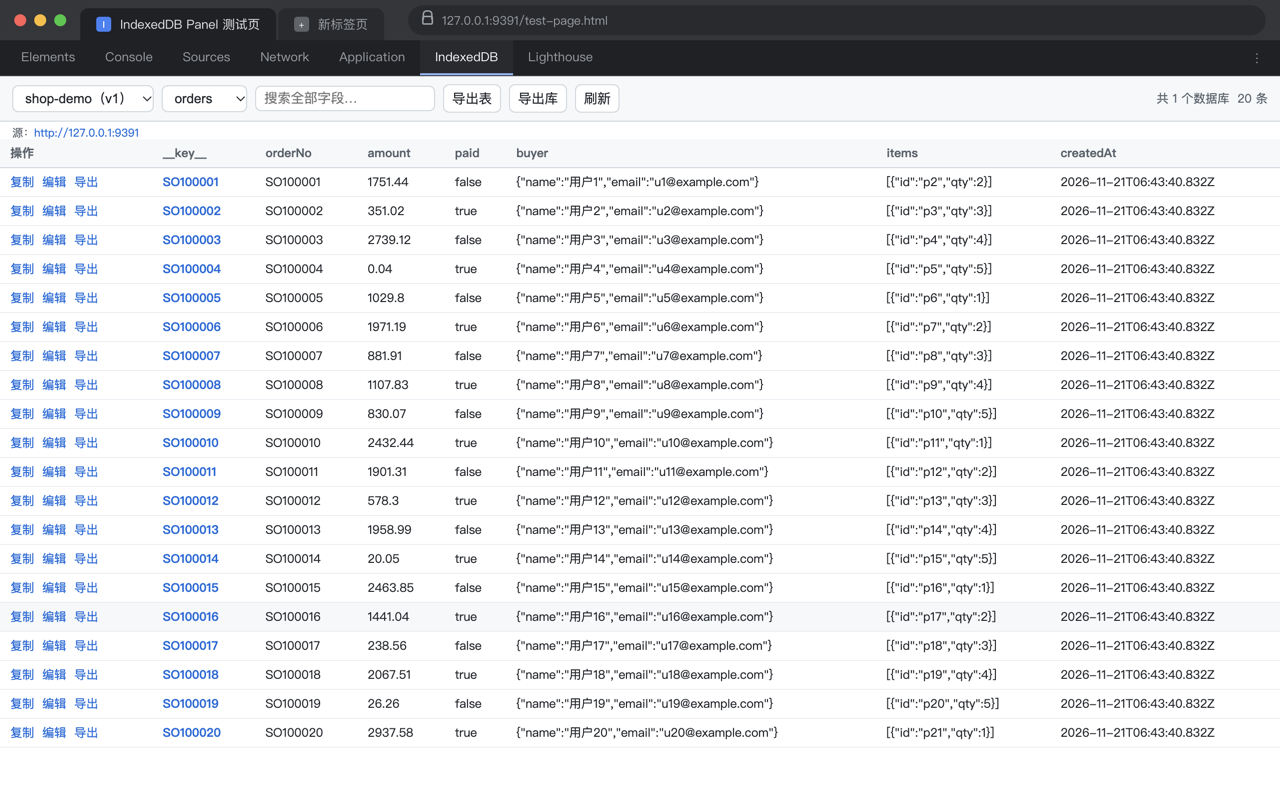
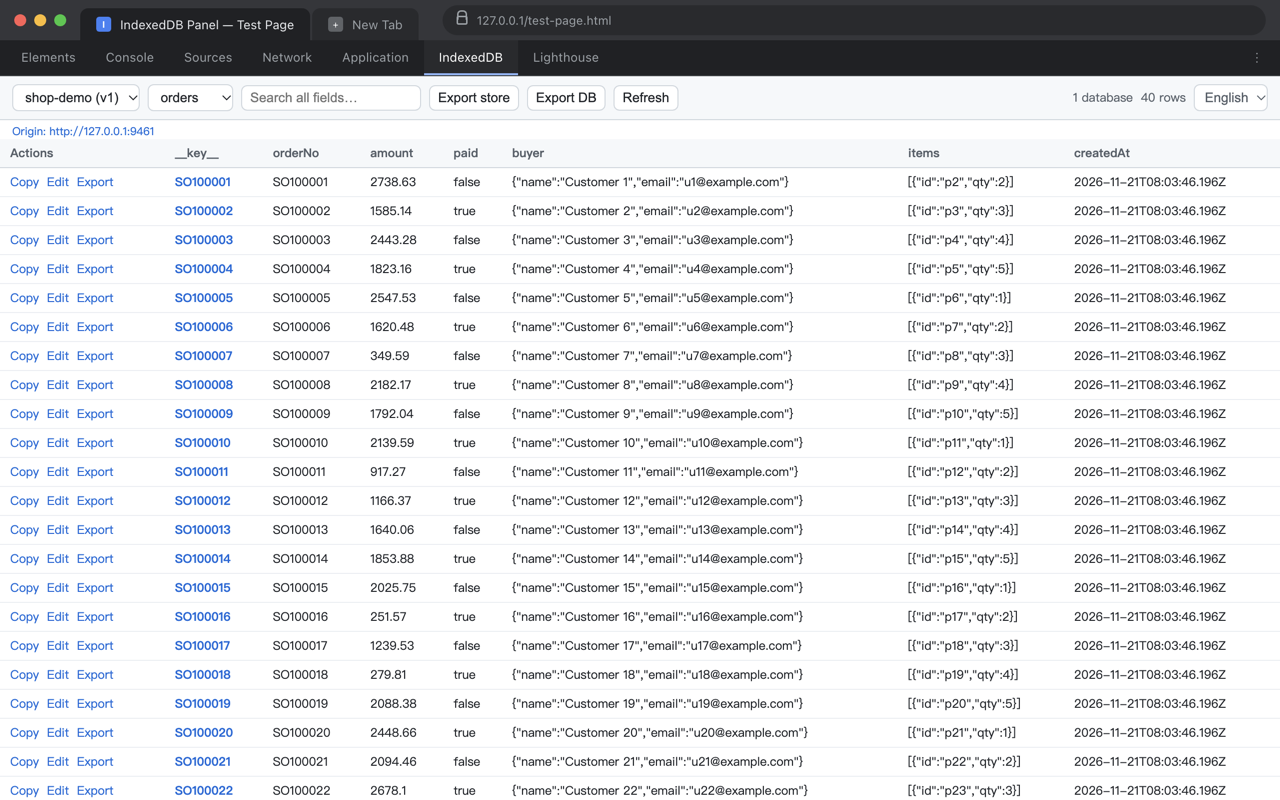
docs: 商店截图的界面与示例数据全部改为英文
商店评审和海外用户看的是英文，之前截图里的表格数据还是中文（商品 1、
耳机、新品…），跟界面已经英文化的现状不一致。

做法：另起一个英文 fixture 页（Product 1 / Audio / New…），用同一套 CDP
流程重新采图：
- 5 张 1280×800：主图换成英文 mock（标签页 IndexedDB Panel — Test Page、
  地址栏 127.0.0.1/test-page.html），其余四张为英文界面 + 英文数据。
- 主图用 orders 表（40 条）而非 products，既展示不同 schema，也让页面填满。
- 440×280 宣传图块同步换成英文副标题与标签（Browse / Search / Edit /
  Export JSON），表格里的分类改 Audio / Phones / Computers / Accessories。
- 两版 README 的素材说明补一句：图片内容为英文，扩展本身仍是中英双语。

仓库里的 test-page.html（中文测试页）没动，截图用的是临时 fixture。

diff --git a/README.en.md b/README.en.md
@@ -27,6 +27,7 @@ A Chrome DevTools extension that adds an **IndexedDB** panel to DevTools, lettin
 <sub>Edit: tweak the whole record as JSON and save it straight back to the page's database.</sub>
 
 > `docs/store/` holds the Chrome Web Store assets — five 1280×800 screenshots, the 128×128 store icon, and a 440×280 promo tile — ready to upload.
+> Both the UI chrome and the sample data in these images are in English, which is what the international storefront shows. The extension itself still ships in Chinese and English.
 
 ## Why another IndexedDB viewer
 

diff --git a/README.md b/README.md
@@ -27,6 +27,7 @@
 <sub>编辑：整条记录当 JSON 改，保存即写回页面数据库。</sub>
 
 > `docs/store/` 下是 Chrome Web Store 用的素材：5 张 1280×800 截图 + 128×128 商店图标 + 440×280 小型宣传图块，可直接上传。
+> 截图与宣传图块里的界面文案和示例数据都是英文（面向国际商店，避免评审看中文），扩展本身仍支持中英双语。
 
 ## 为什么又多一个 IndexedDB 查看器
 
